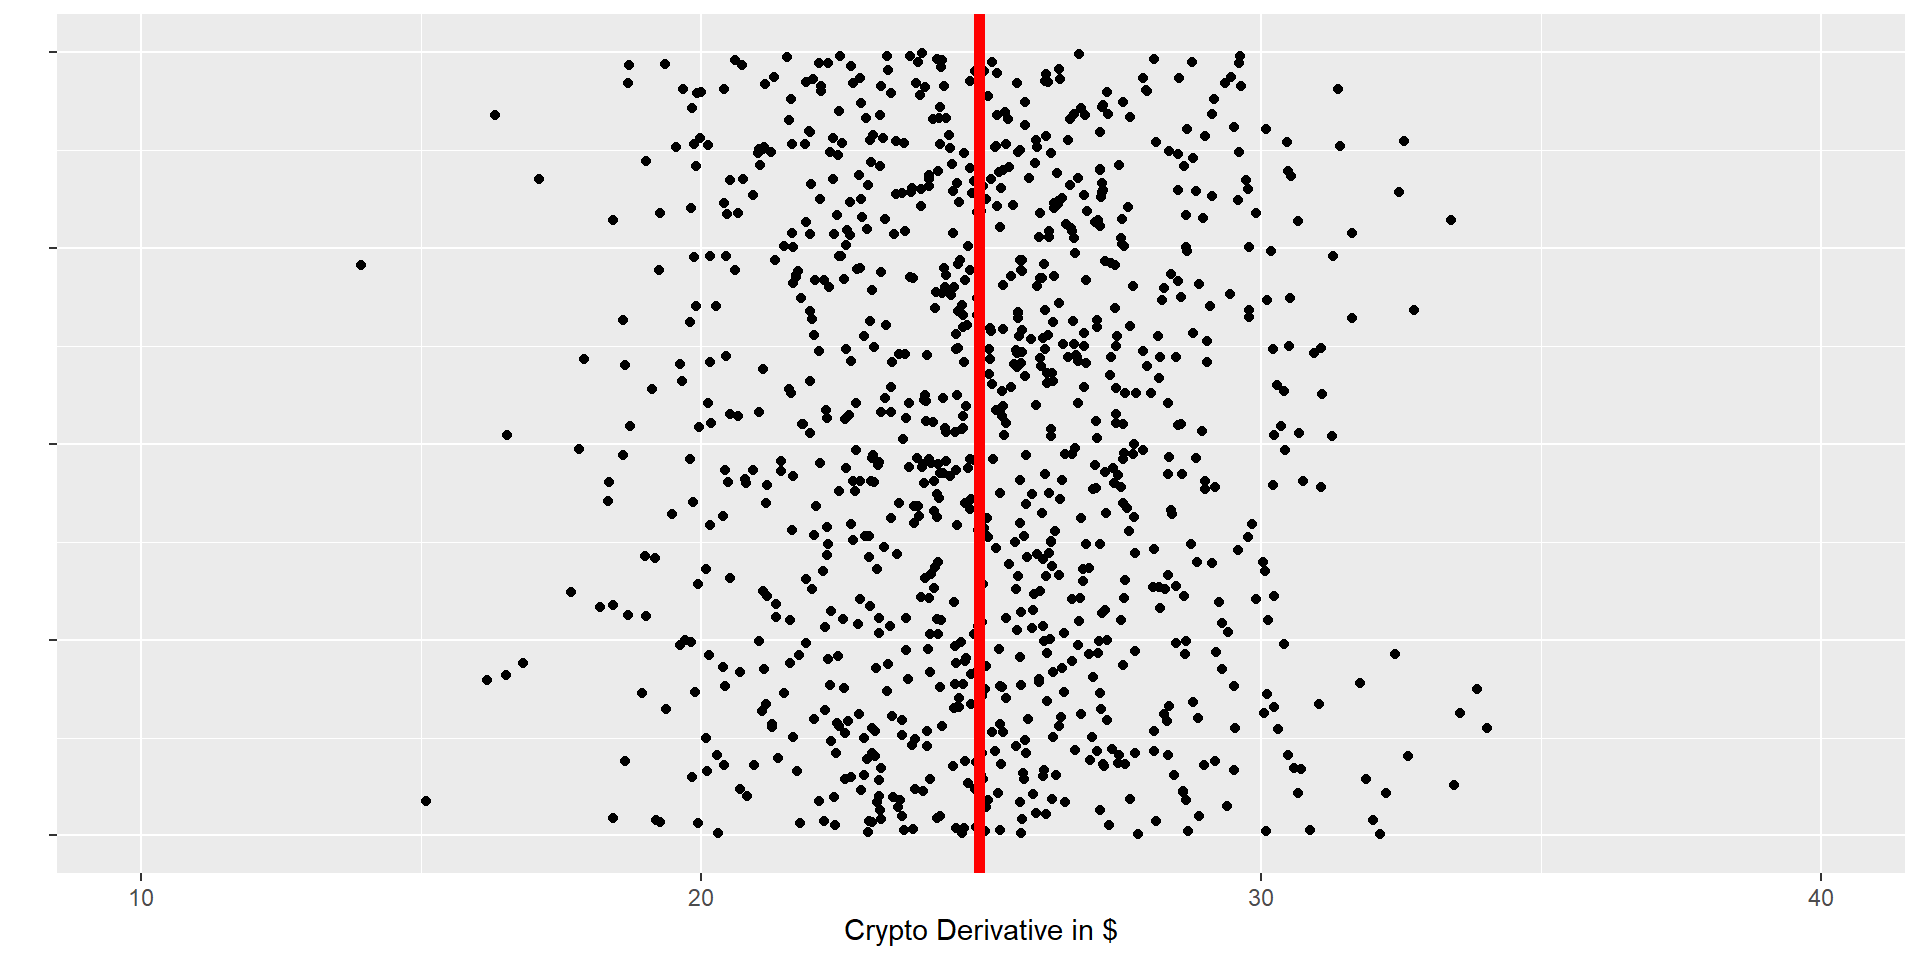
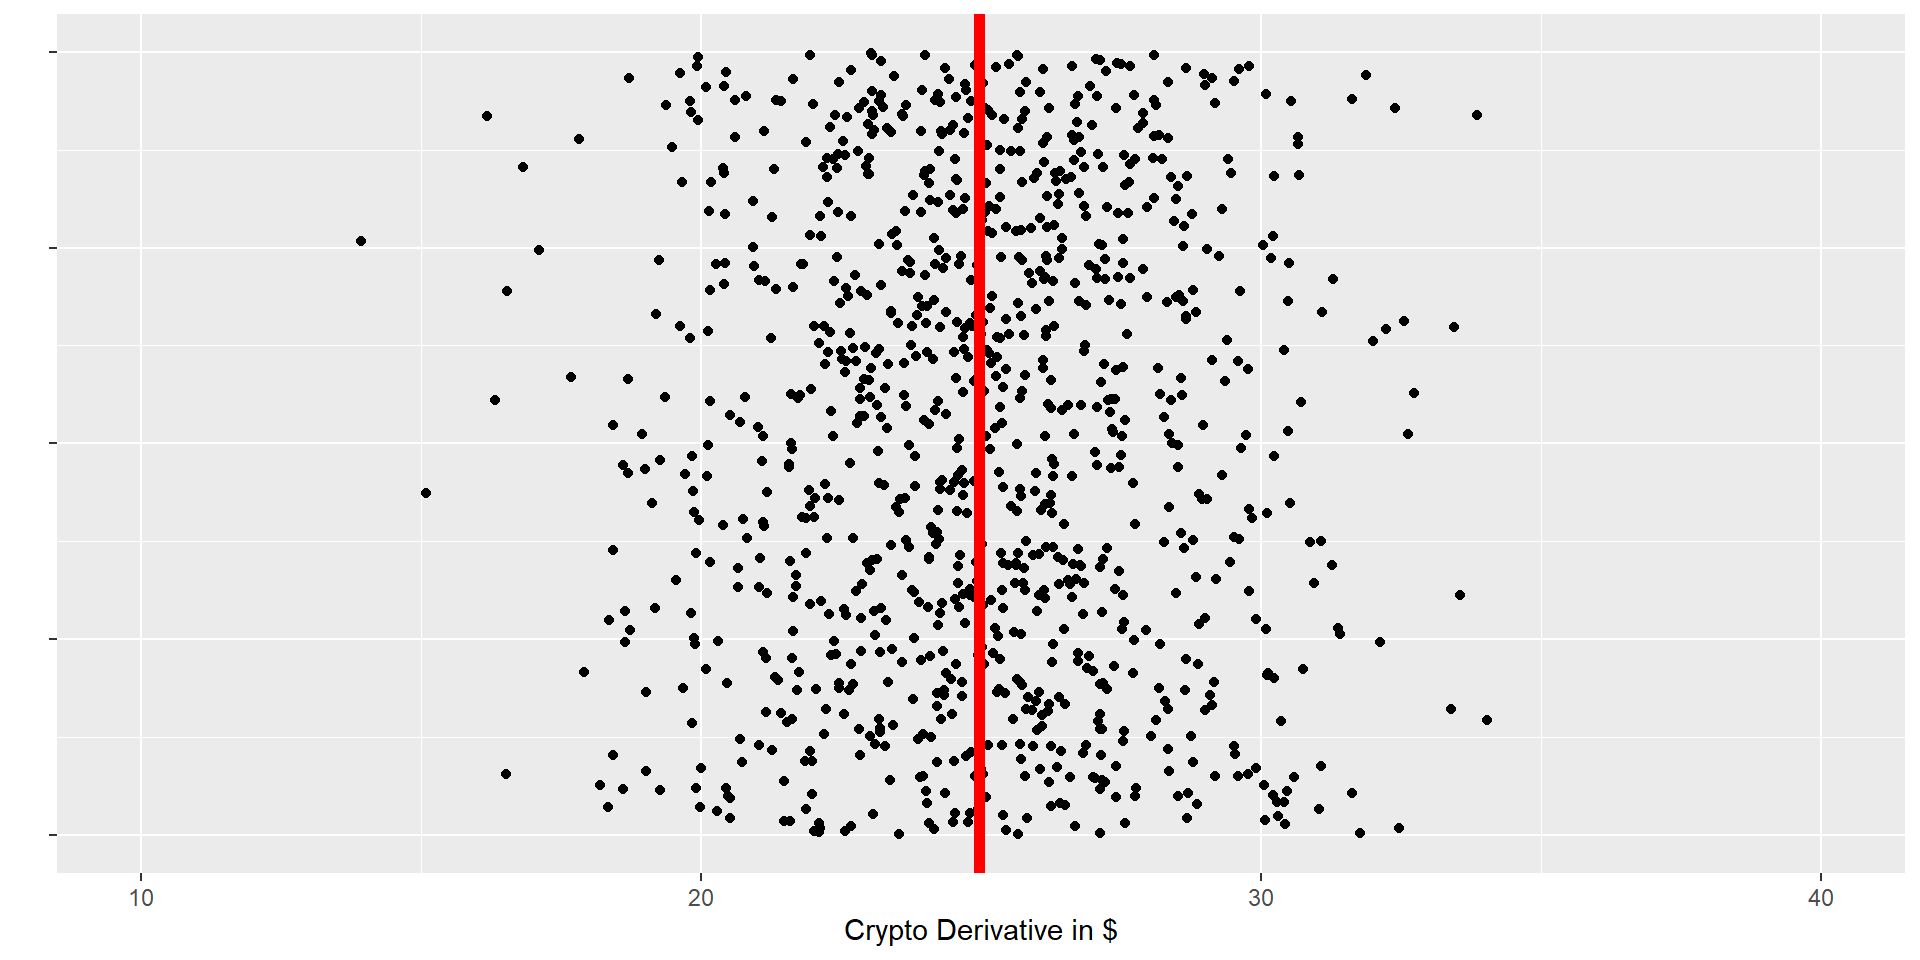
Added you will learn topics

diff --git a/EC3322/Histogram/Histogram.html b/EC3322/Histogram/Histogram.html
@@ -421,7 +421,7 @@
 <ul>
 <li class="fragment">Is this true for all men and women?</li>
 </ul></li>
-<li class="fragment">What is it the average temperature in Michigan/Coastal California? Why is the climate different in te two states?</li>
+<li class="fragment">What is it the average temperature in Michigan/Coastal California? Why is the climate different in the two states?</li>
 </ul>
 </div>
 </section>
@@ -541,10 +541,10 @@
 </div>
 </div><div class="column" style="width:40%;">
 <p>Sample Mean: <span class="math inline">\(\bar x=???\)</span></p>
-<p>Range= ???</p>
-<p>Absolute Deviation = ???</p>
+<p>Range= <span class="math inline">\(???\)</span></p>
+<p>Absolute Deviation = <span class="math inline">\(???\)</span></p>
 <p>Sample Variance: <span class="math inline">\(Var=\frac{\sum_{i=1}^N (x_i-\bar x)^2}{N-1}=???\)</span></p>
-<p>Sample Standard Deviation: ???</p>
+<p>Sample Standard Deviation: <span class="math inline">\(Std=\sqrt{Var}\)</span></p>
 </div></div>
 </section>
 <section id="how-are-critical-diabeteschlosterol-values-and-other-blood-test-values-determined" class="slide level2 smaller">

diff --git a/EC3322/Ggplot/Ggplot.html b/EC3322/Ggplot/Ggplot.html
@@ -403,7 +403,13 @@
 <section id="what-will-you-learn" class="slide level2 scrollable smaller">
 <h2>What Will You Learn</h2>
 <ul>
-<li>You will r</li>
+<li><p>You understand the idea behind the “Grammar of Graphics”</p></li>
+<li><p>You will understand how to map variables to elements of a graph such as x-axis, y-axis, or color.</p></li>
+<li><p>You will learn how to use a jitter plot to display points that otherwise would overlap</p></li>
+<li><p>You will learn how to design a line plot</p></li>
+<li><p>You will learn how to add titles, x- and y axis labels and other components to a ggplot graph</p></li>
+<li><p>Tou will learn how to scale an axis</p></li>
+<li><p>You will learn how to apply a theme to a ggplot graph</p></li>
 </ul>
 </section>
 <section id="loading-the-titanic-dataset-and-performing-basic-dataengeneering" class="slide level2 smaller">
